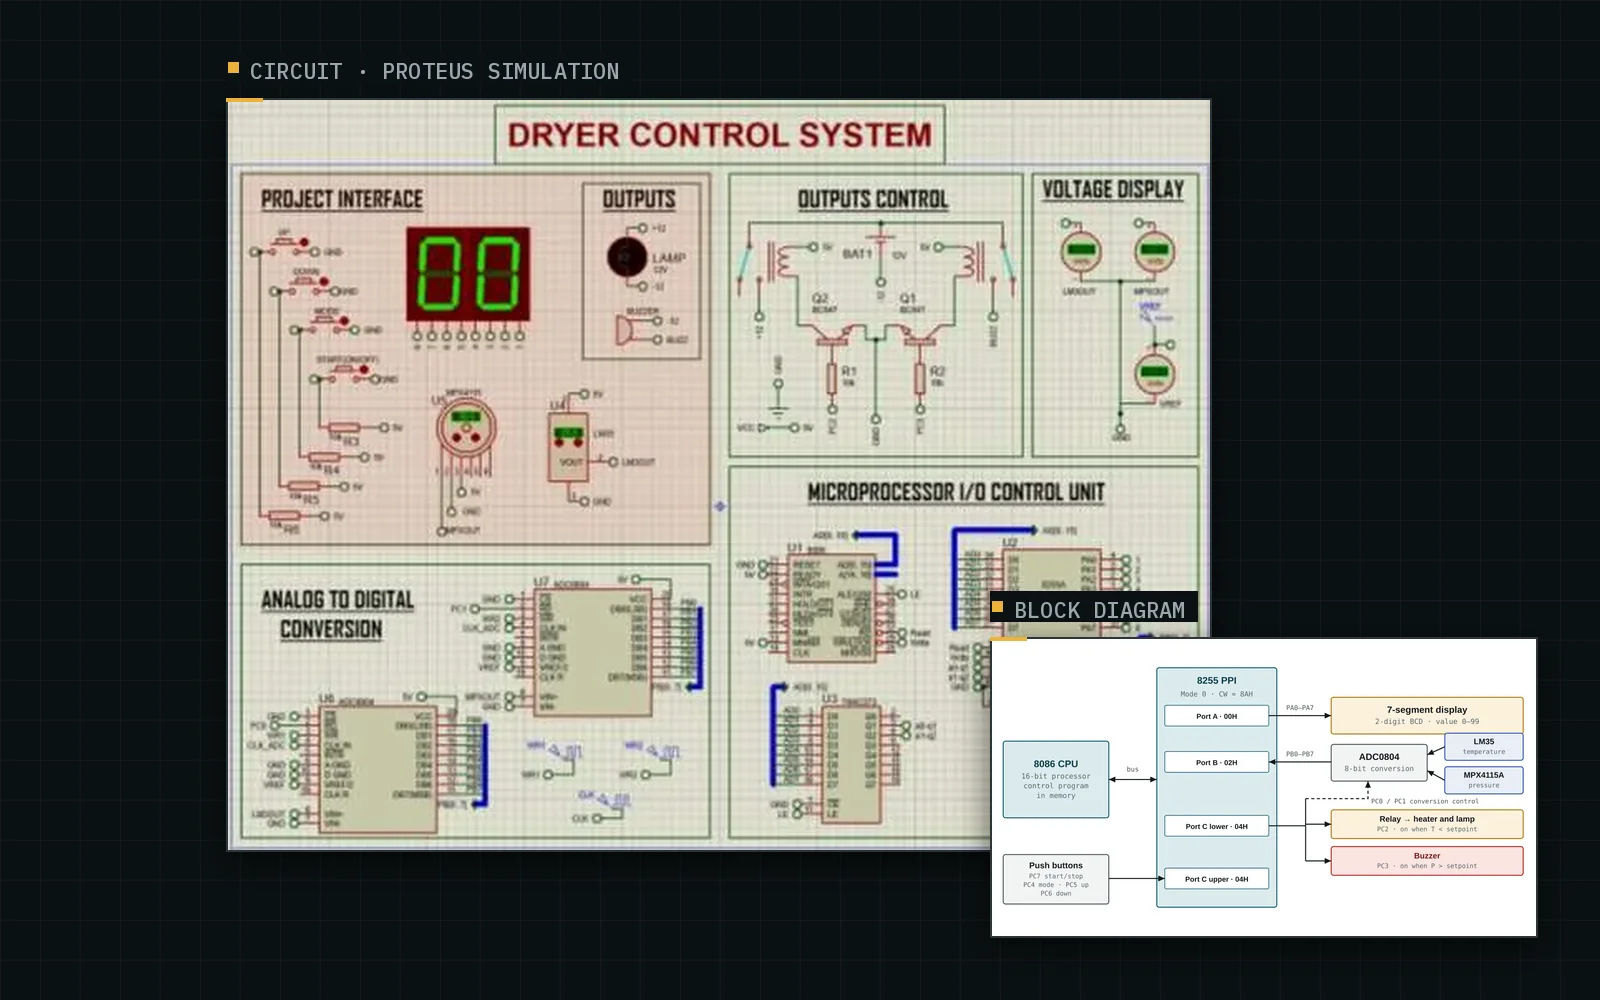
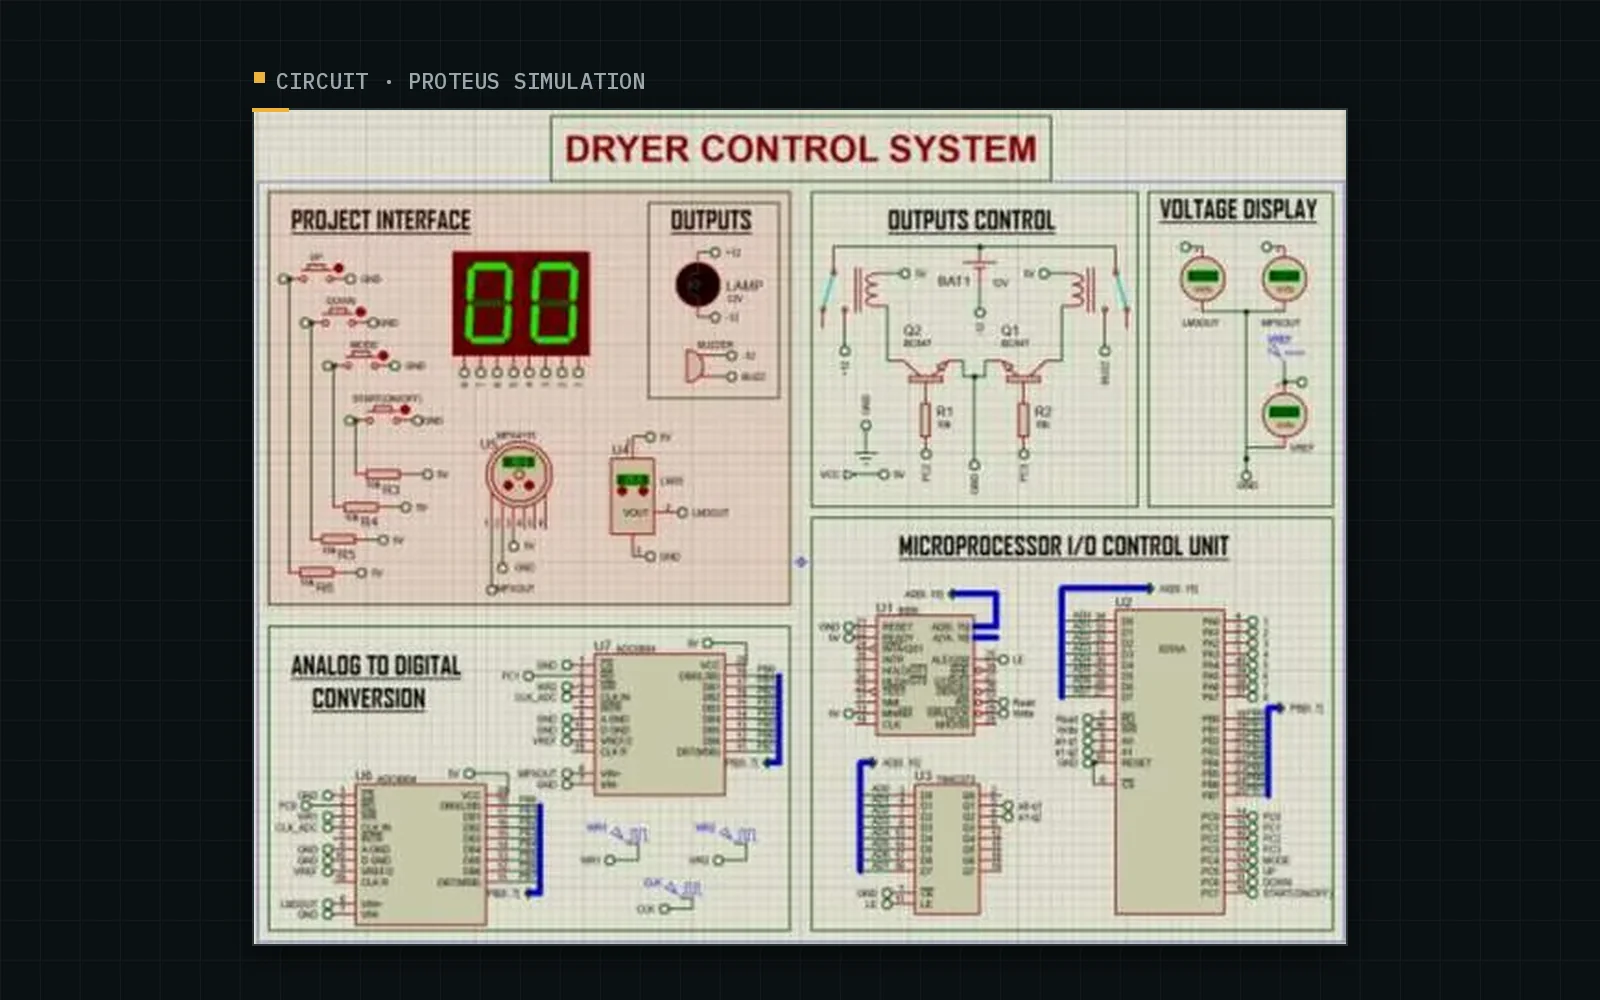
Covers: energy dashboard first; single image for dryer and EE Studio
Claude-Session: https://claude.ai/code/session_013SwNqFY9cromwwTBsdvjWR

diff --git a/tools/make-covers.py b/tools/make-covers.py
@@ -1,6 +1,5 @@
 # Builds project cover panels: hardware + dashboard side by side on a dark instrument panel.
-# Run from the repository root:  python3 tools/make-covers.py public public/img/covers [dryer-block.png]
-# (the optional third argument is public/diagrams/dryer-block.svg exported to PNG, e.g. with rsvg-convert)
+# Run from the repository root:  python3 tools/make-covers.py public public/img/covers
 import sys
 from PIL import Image, ImageDraw, ImageFont, ImageFilter
 SRC = sys.argv[1]; OUT = sys.argv[2]
@@ -77,9 +76,9 @@ def loadp(path, crop=None):
     return im
 
 pip((load("pn-board.webp"), "HARDWARE · SOLDERED PCB"), (load("pn-dash.webp"), "DASHBOARD · LIVE STATES"), "panel-protection", 0.26)
-pip((load("en-schematic.webp"), "CIRCUIT · WIRING DESIGN"), (load("en-dashboard.webp"), "DASHBOARD · ENERGY COMMAND CENTER"), "energy-copilot", 0.36)
+pip((load("en-dashboard.webp"), "DASHBOARD · ENERGY COMMAND CENTER"), (load("en-schematic.webp"), "CIRCUIT · WIRING DESIGN"), "energy-copilot", 0.28)
 pip((load("mp-hw.webp", (0.04,0.04,0.96,0.96)), "HARDWARE · BREADBOARD"), (load("mp-dash.webp"), "CONSOLE · TWO METHODS"), "mpu6050-speed", 0.32)
 pip((load("fl-photo.webp"), "HARDWARE · BREADBOARD"), (load("fl-nodered.webp"), "DASHBOARD · NODE-RED"), "flood-warning", 0.22)
 pip((load("mq-circuit.webp"), "CIRCUIT · WIRING DIAGRAM"), (load("mq-ui.webp"), "CONSOLE · AIR QUALITY"), "mq135-gas", 0.36)
-pip((load("dr-circuit.webp"), "CIRCUIT · PROTEUS SIMULATION"), (loadp(sys.argv[3] if len(sys.argv) > 3 else f"{SRC}/../public/img/dr-circuit.webp"), "BLOCK DIAGRAM"), "dryer-8086", 0.34)
-pip((load("ees-landing.webp", (0,0,1,0.62)), "WEB APP · DEPLOYED"), (load("ees-api.webp", (0,0,1,0.8)), "API · TESTED"), "ee-studio", 0.32)
+compose([(load("dr-circuit.webp"), "CIRCUIT · PROTEUS SIMULATION")], "dryer-8086")
+compose([(load("ees-landing.webp", (0,0,1,0.62)), "WEB APP · DEPLOYED")], "ee-studio")
